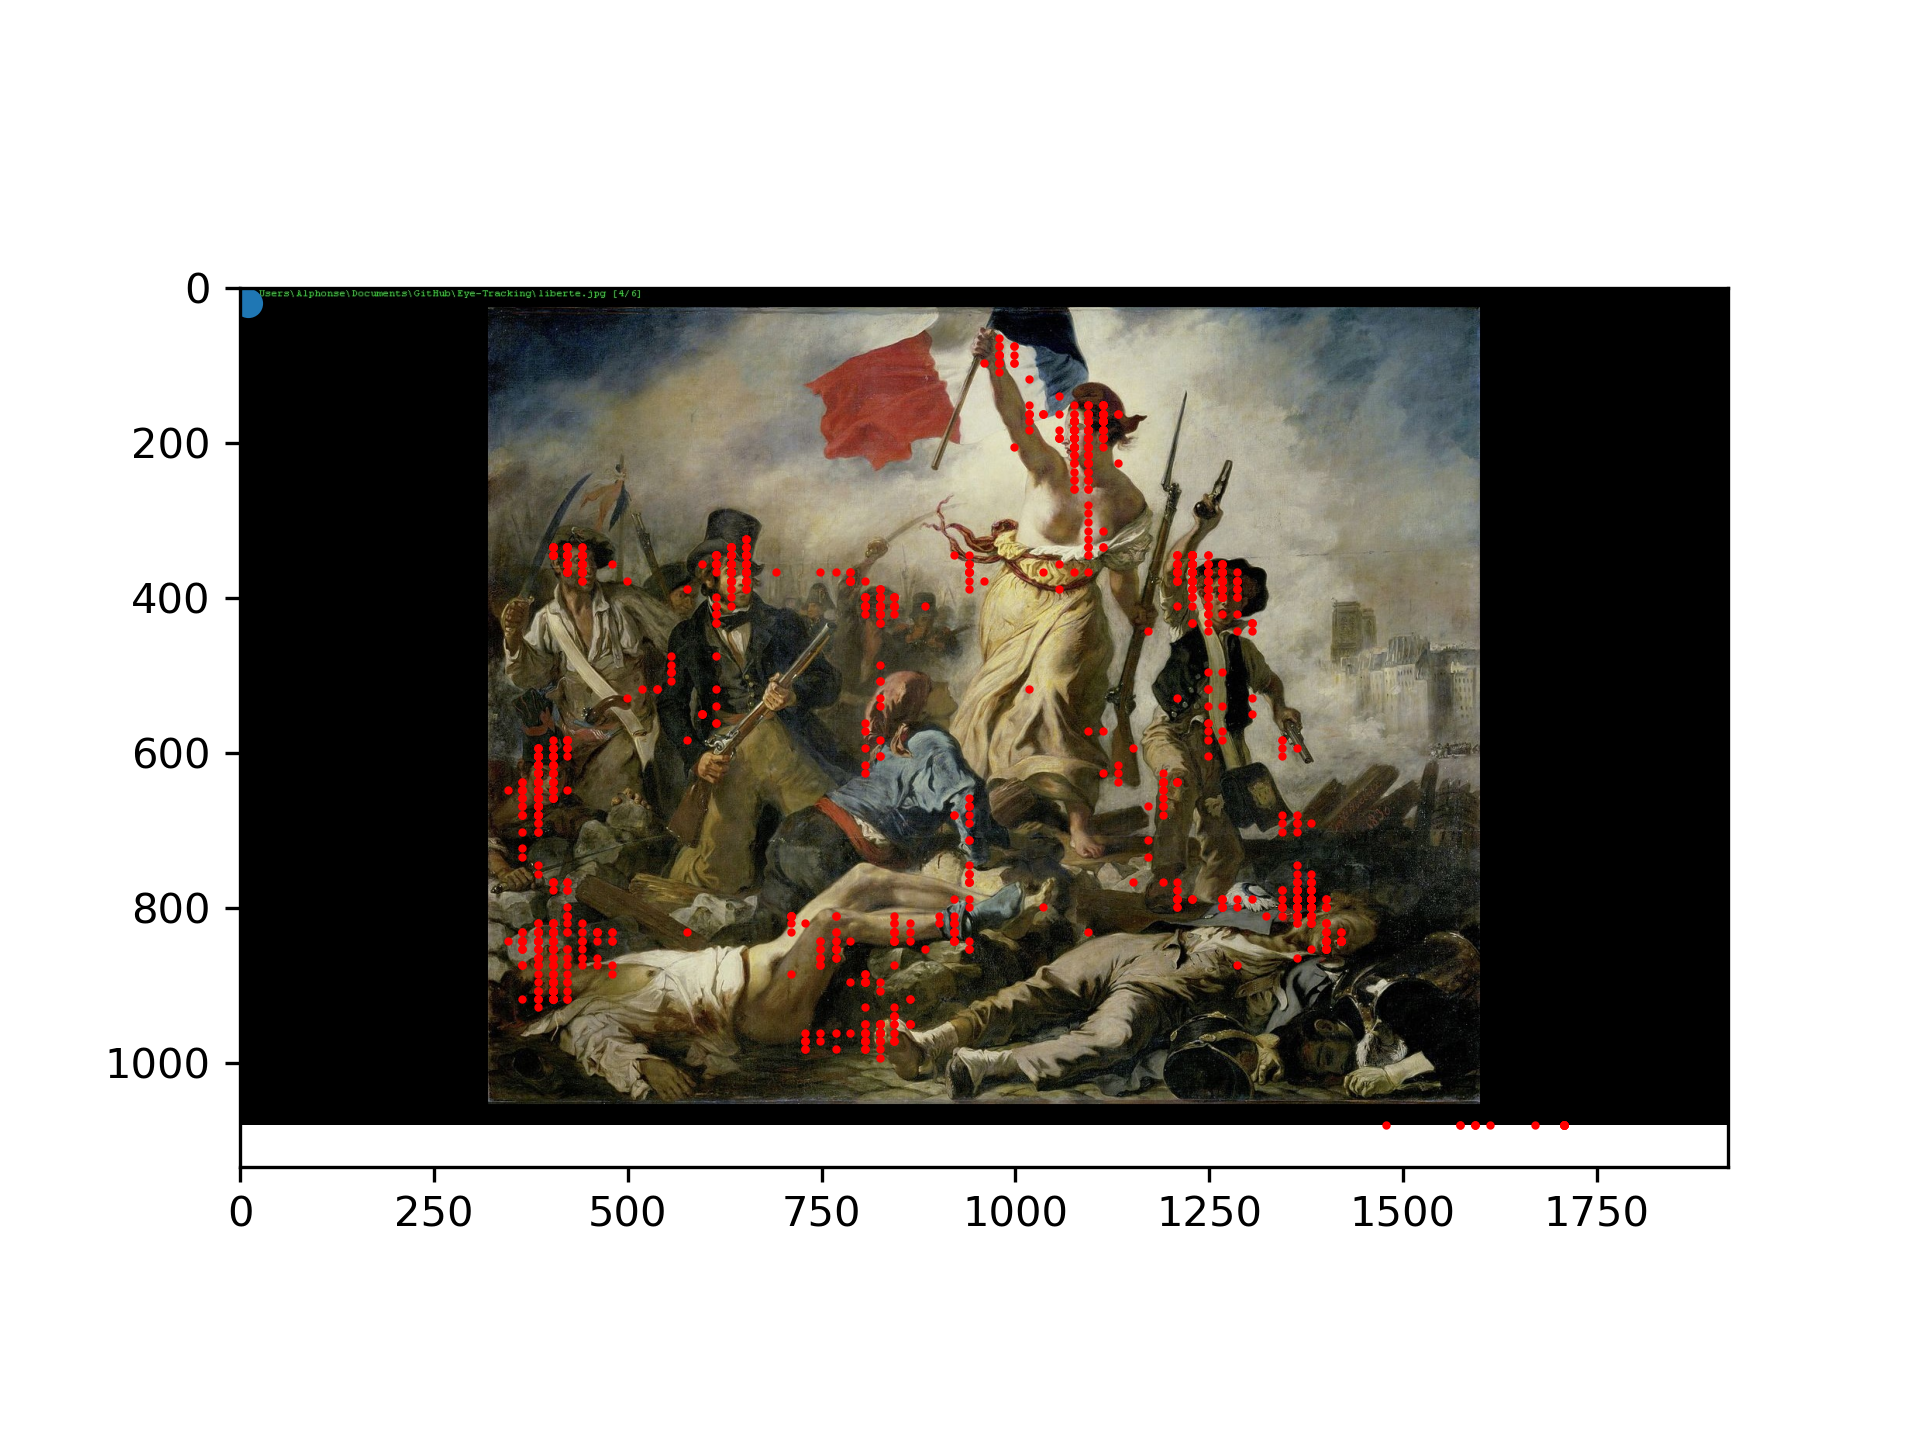
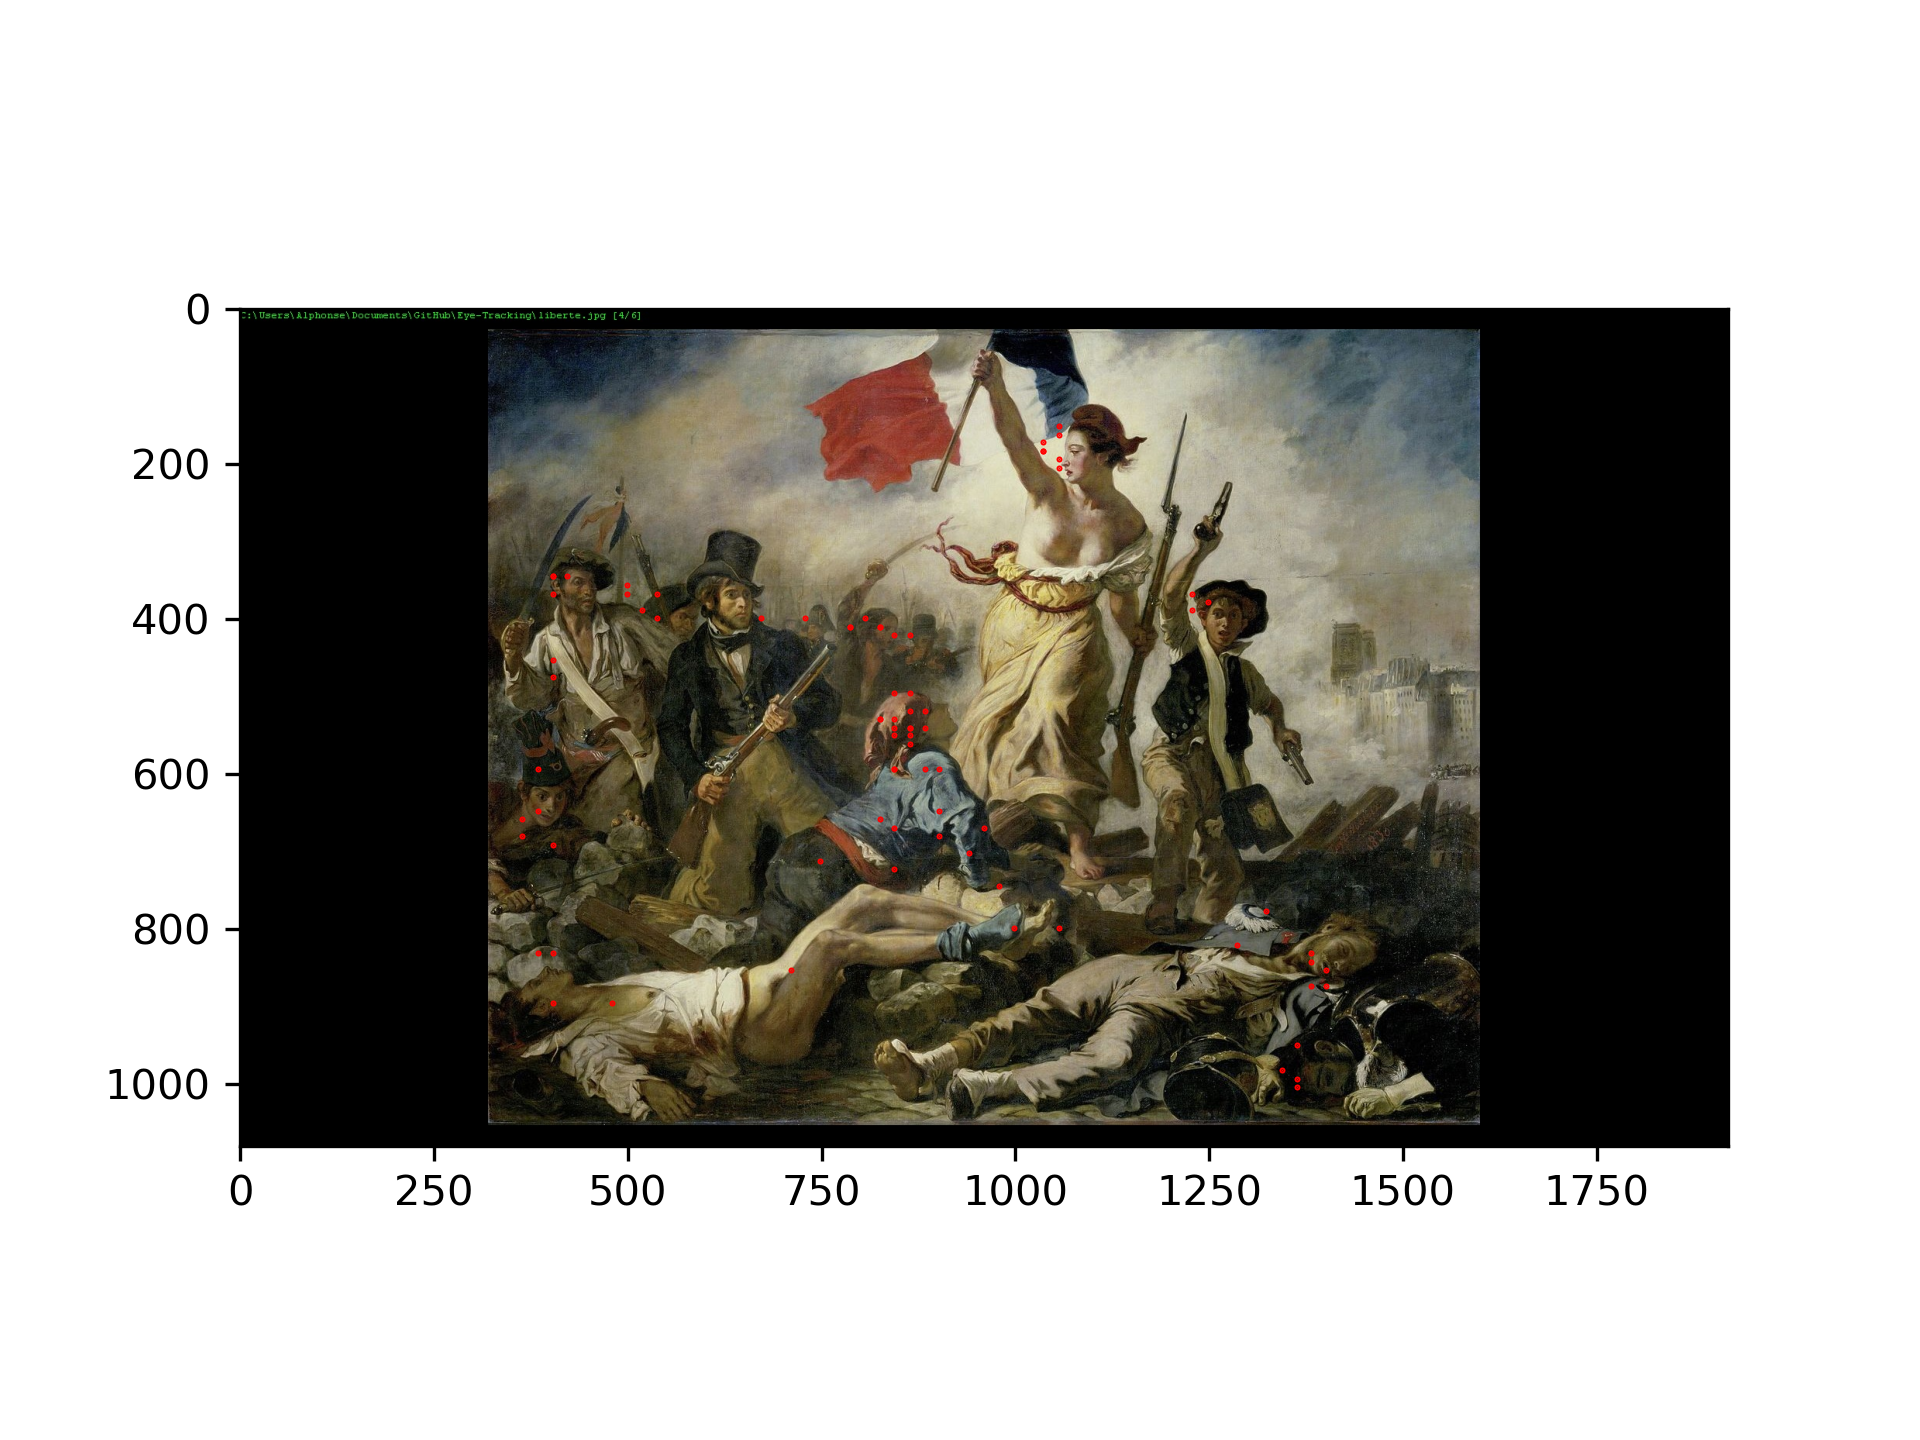
corr examples

diff --git a/example.py b/example.py
@@ -1,7 +1,7 @@
 from detectors import *
 from plot_fixations import *
 
-FILENAME = 'all_gaze_data-958163687715'
+FILENAME = 'all_gaze_data-958009508617'
 IMAGENAME = 'liberte1080.jpg'
 
 def test(filename=FILENAME, imagename=IMAGENAME):
@@ -25,6 +25,7 @@ def test(filename=FILENAME, imagename=IMAGENAME):
 
     #plot_fixations_points(df['x'], df['y'], image_name, 1)
     plot_fixations_path(df['x'], df['y'], imagename, linewidth=0.3, markersize=0.6)
+    plot_fixations_points(df_output['startx'], df_output['starty'], imagename, 0.2)
 
 if __name__ == '__main__':
 

diff --git a/plot_fixations.py b/plot_fixations.py
@@ -15,7 +15,7 @@ def plot_fixations_points(x, y, image_name, pointsize):
 
     # put a red dot, size 40, at 2 locations:
     plt.scatter(x, y, c='r', s=pointsize)
-    plt.savefig('testplot.png', dpi=300)
+    plt.savefig('examples/testplot.png', dpi=300)
     plt.show()
 
 
